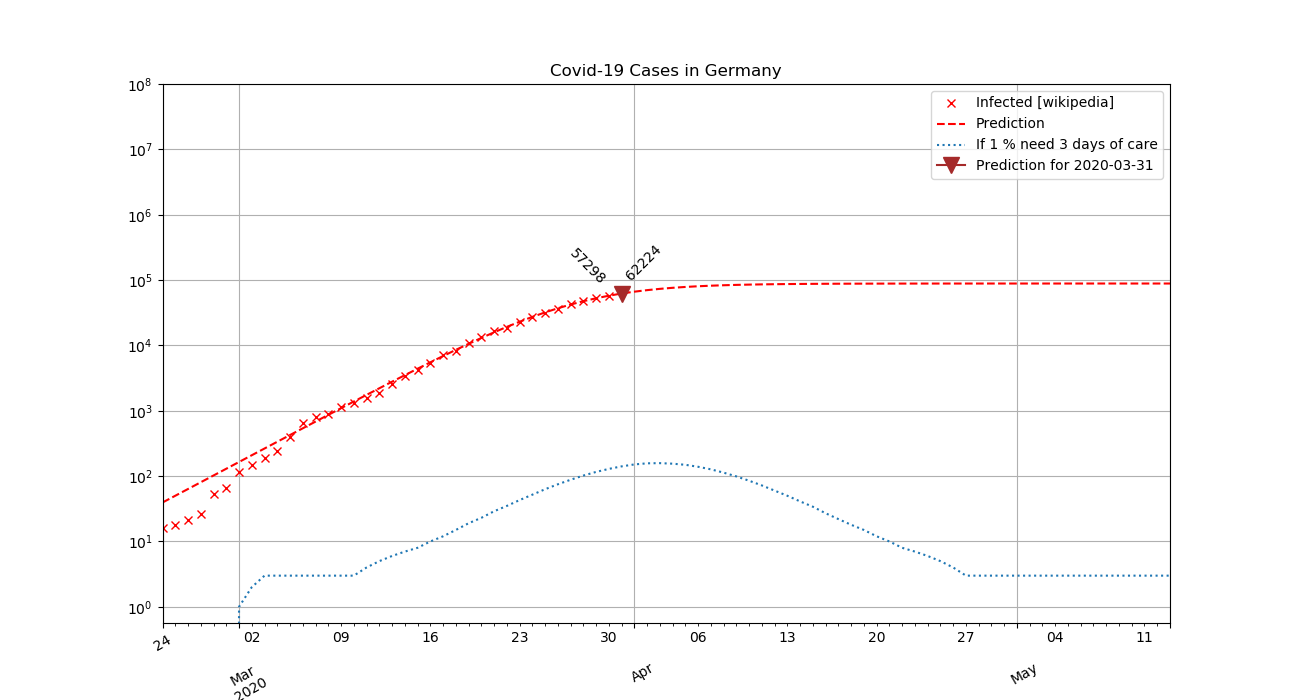
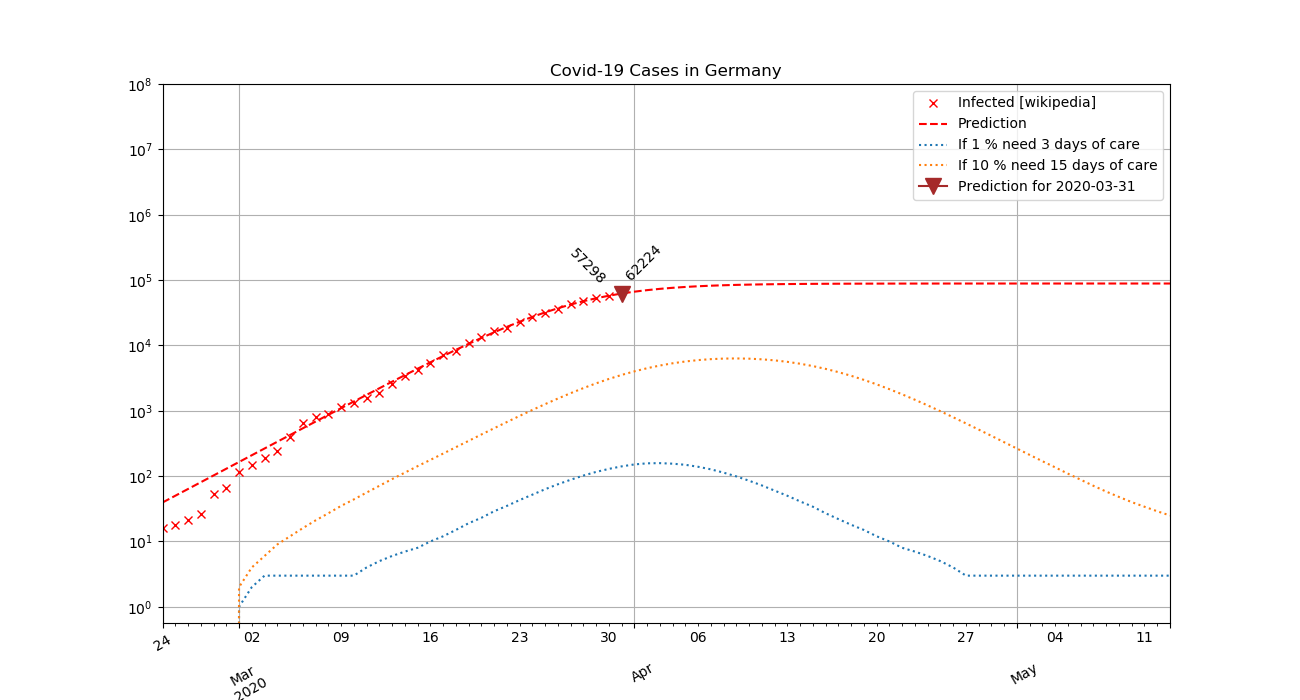
Change logistic curve

Changed region(s): [[0.7077, 0.12, 0.8923, 0.3]]

diff --git a/index.html b/index.html
@@ -17,6 +17,10 @@ curve in the near future.</p>
 I do not do this to stress you, but to <em>increase the understanding</em> for the drastic measures taken now 
 by the German goverment.
 
+<h3>Update 30<sup>th</sup> of March 2020</h3>
+
+<p>The measures taken by the government where fruitful and the exponential growth is slowing. Therefore I changed the
+fitting in that manner, that I don't use the 70% of sick people as a maximum value anymore.</p>
 <h2>Disclaimer</h2>
 
 <p>The numbers are from a wikipedia article <a href="https://de.wikipedia.org/wiki/COVID-19-Pandemie_in_Deutschland">

diff --git a/coro.py b/coro.py
@@ -17,7 +17,7 @@ PREDICTIONS = [{'days': 3,
 PREDICTIONS.append({'days': 15,
                     'percentage': 10,
                     'key': 'If 10 % need 15 days of care',
-                    'plot': False})
+                    'plot': True})
 
 
 def _logistic_function(x, k, x_0, L):
@@ -119,6 +119,10 @@ curve in the near future.</p>
 I do not do this to stress you, but to <em>increase the understanding</em> for the drastic measures taken now 
 by the German goverment.
 
+<h3>Update 30<sup>th</sup> of March 2020</h3>
+
+<p>The measures taken by the government where fruitful and the exponential growth is slowing. Therefore I changed the
+fitting in that manner, that I don't use the 70%% of sick people as a maximum value anymore.</p>
 <h2>Disclaimer</h2>
 
 <p>The numbers are from a wikipedia article <a href="https://de.wikipedia.org/wiki/COVID-19-Pandemie_in_Deutschland">
